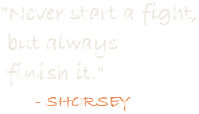
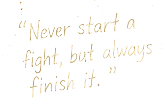
Use supplied handwritten Shorsey quote art (v3)
Replaces my font-rendered stand-in with the real hand-lettered art, keyed
to transparency so it works on every backdrop. Bumped to -v3 to bypass
cached copies.

diff --git a/src/styles/base.css b/src/styles/base.css
@@ -232,7 +232,7 @@ footer .line b { color: var(--text-secondary); font-weight: 400; }
 .widget { pointer-events: none; user-select: none; }
 .w-abs { position: absolute; }
 
-.w-shorsey { right: 6%; bottom: 14%; width: 195px; opacity: .6; transform: rotate(2deg); }
+.w-shorsey { right: 6%; bottom: 14%; width: 185px; opacity: .65; transform: rotate(2deg); }
 
 .dossier-card .ribbons-img { width: min(320px, 70%); opacity: .8; margin-bottom: 1.5rem; }
 .w-compass { top: 2rem; right: 2.5rem; width: 120px; opacity: .4; transform: rotate(-3deg); }
